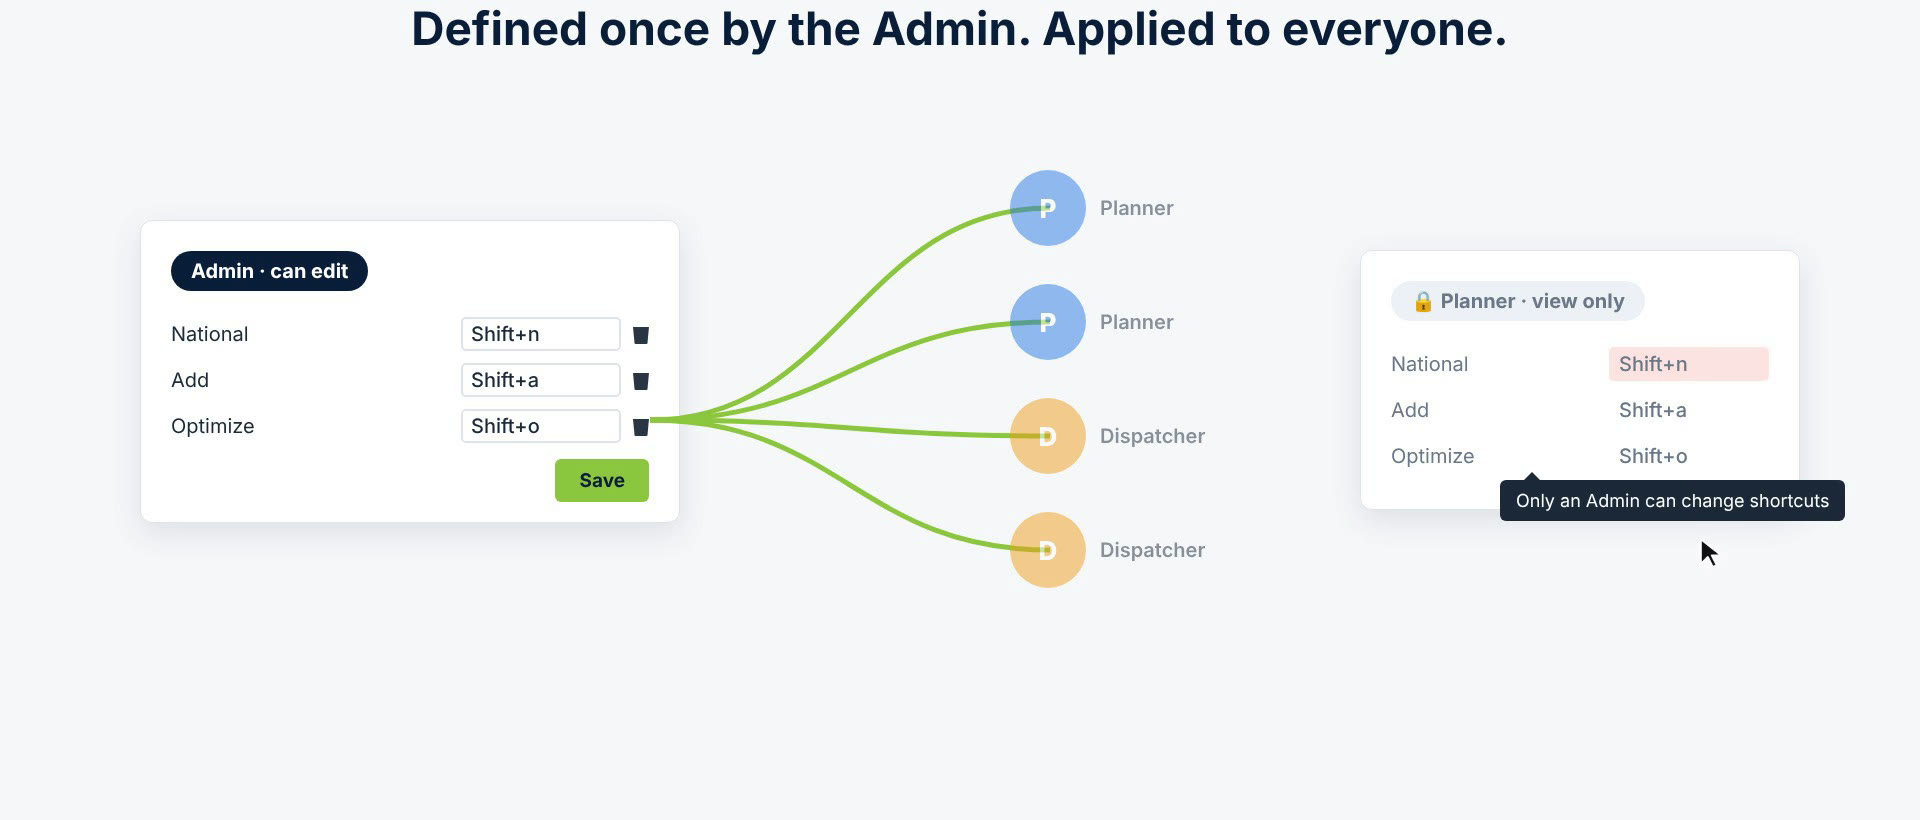
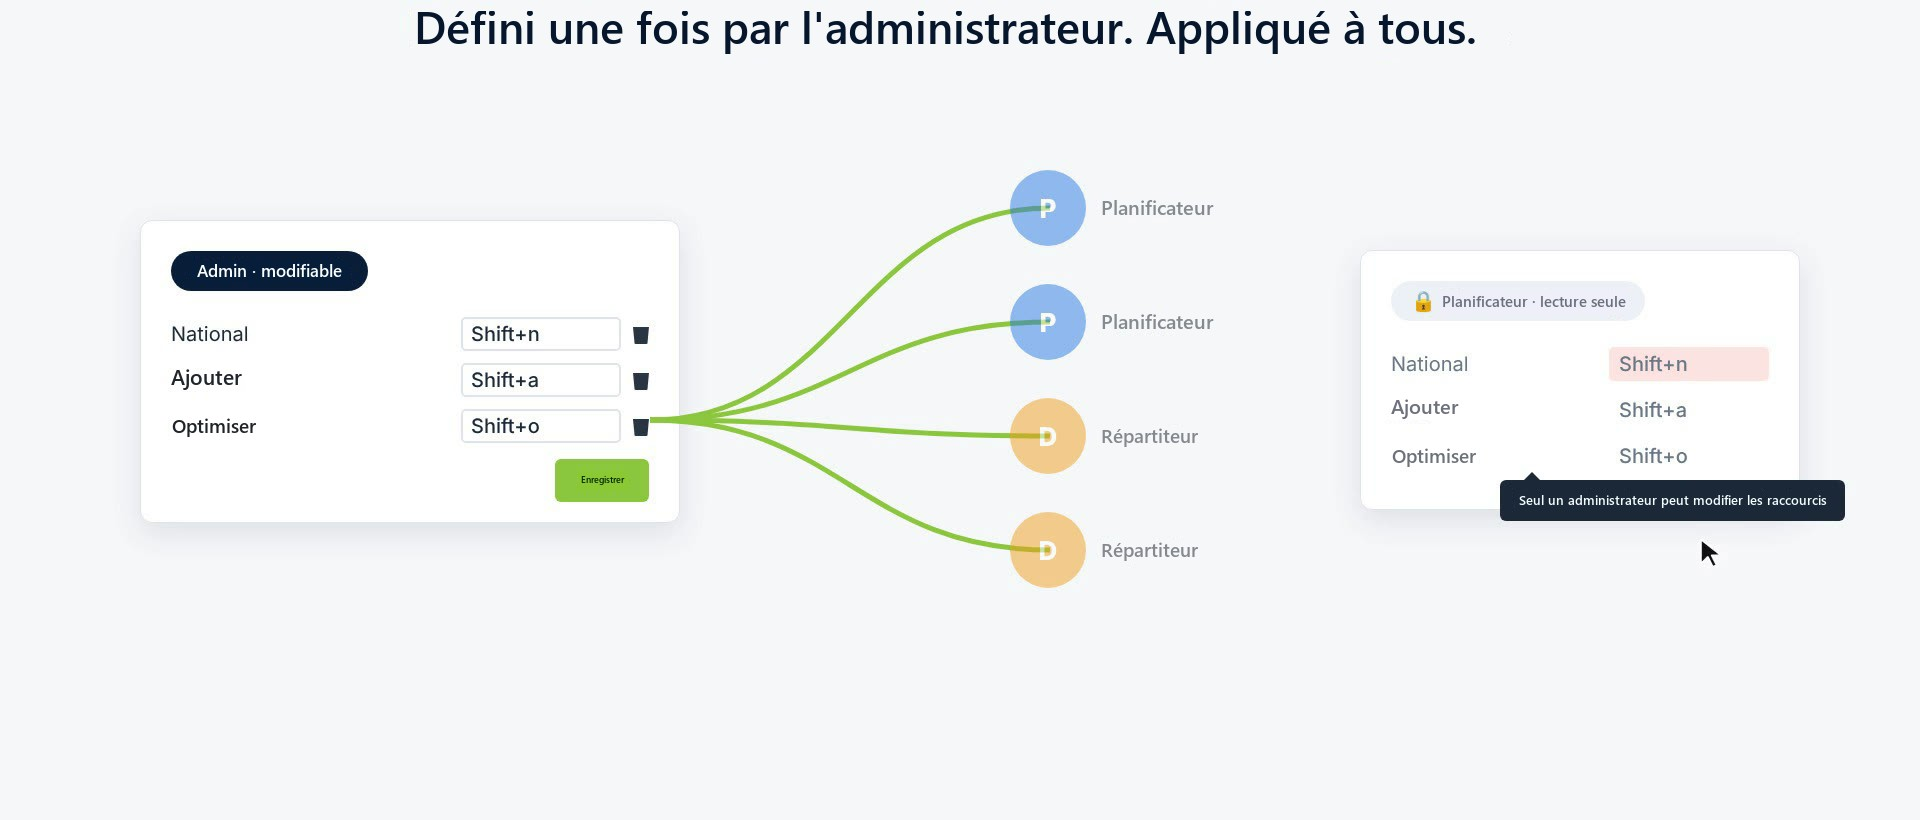
Traduire en français les libellés des illustrations restantes

diff --git a/manage-vehicle-fleets/associate-containers-with-vehicles.md b/manage-vehicle-fleets/associate-containers-with-vehicles.md
@@ -43,7 +43,7 @@ L’association des conteneurs aux véhicules vous permet de définir les conten
 
 2. Dans votre fichier d’import des véhicules, ajoutez une colonne **Conteneurs**. Pour chaque véhicule, saisissez les identifiants des conteneurs séparés par des virgules. Chaque conteneur ne peut être indiqué que pour un seul véhicule. Pour partir d’un exemple, cliquez sur **Voir un modèle de fichier**.
 
-![Un fichier d’import des véhicules avec une colonne Conteneurs](../.gitbook/assets/ContainersVehicles_006.jpg)
+![Un fichier d’import des véhicules avec une colonne Conteneurs](../.gitbook/assets/ContainersVehicles_FR_006.jpg)
 
 3. Déposez le fichier sur la page d’import, ou cliquez sur **Parcourir (Excel…)** pour le sélectionner, puis terminez l’import.
 
@@ -64,7 +64,7 @@ Les conteneurs sont associés aux véhicules indiqués dans le fichier.
 
 Au début de la tournée, le chauffeur scanne le QR code du véhicule dans l’application mobile. L’application affiche les conteneurs à bord du véhicule, et le chauffeur les confirme en un seul scan.
 
-![Le chauffeur scanne le QR code du véhicule et confirme les conteneurs à bord](../.gitbook/assets/ContainersVehicles_008.jpg)
+![Le chauffeur scanne le QR code du véhicule et confirme les conteneurs à bord](../.gitbook/assets/ContainersVehicles_FR_008.jpg)
 
 ## Conseils
 

diff --git a/vehicle-condition-photos.md b/vehicle-condition-photos.md
@@ -41,7 +41,7 @@ Si le questionnaire est utilisé dans la configuration d’une agence, un messag
 
 Au départ ou à la fin de la tournée, après le questionnaire, l’application mobile ouvre l’appareil photo. Le chauffeur prend jusqu’au nombre de photos configuré, par exemple du compteur kilométrique, de l’extérieur et des pneus.
 
-![Le chauffeur prend les photos du véhicule avec l’appareil photo de l’application](.gitbook/assets/VehiclePhotos_005.jpg)
+![Le chauffeur prend les photos du véhicule avec l’appareil photo de l’application](.gitbook/assets/VehiclePhotos_FR_005.jpg)
 
 ## Consulter les photos du véhicule d’une tournée
 

diff --git a/manage-tickets/mission-details-in-tickets.md b/manage-tickets/mission-details-in-tickets.md
@@ -53,7 +53,7 @@ Dans les nouveaux tickets créés à partir de ce modèle, les champs insérés 
 
 Lorsque plusieurs éléments d’un conteneur rencontrent le même problème, un seul ticket est créé sur la mission parente pour l’ensemble du conteneur, au lieu d’un ticket par élément.
 
-![Un ticket par conteneur au lieu d’un ticket par élément](../.gitbook/assets/MissionDetailsTickets_008.jpg)
+![Un ticket par conteneur au lieu d’un ticket par élément](../.gitbook/assets/MissionDetailsTickets_FR_008.jpg)
 
 ## Conseils
 
